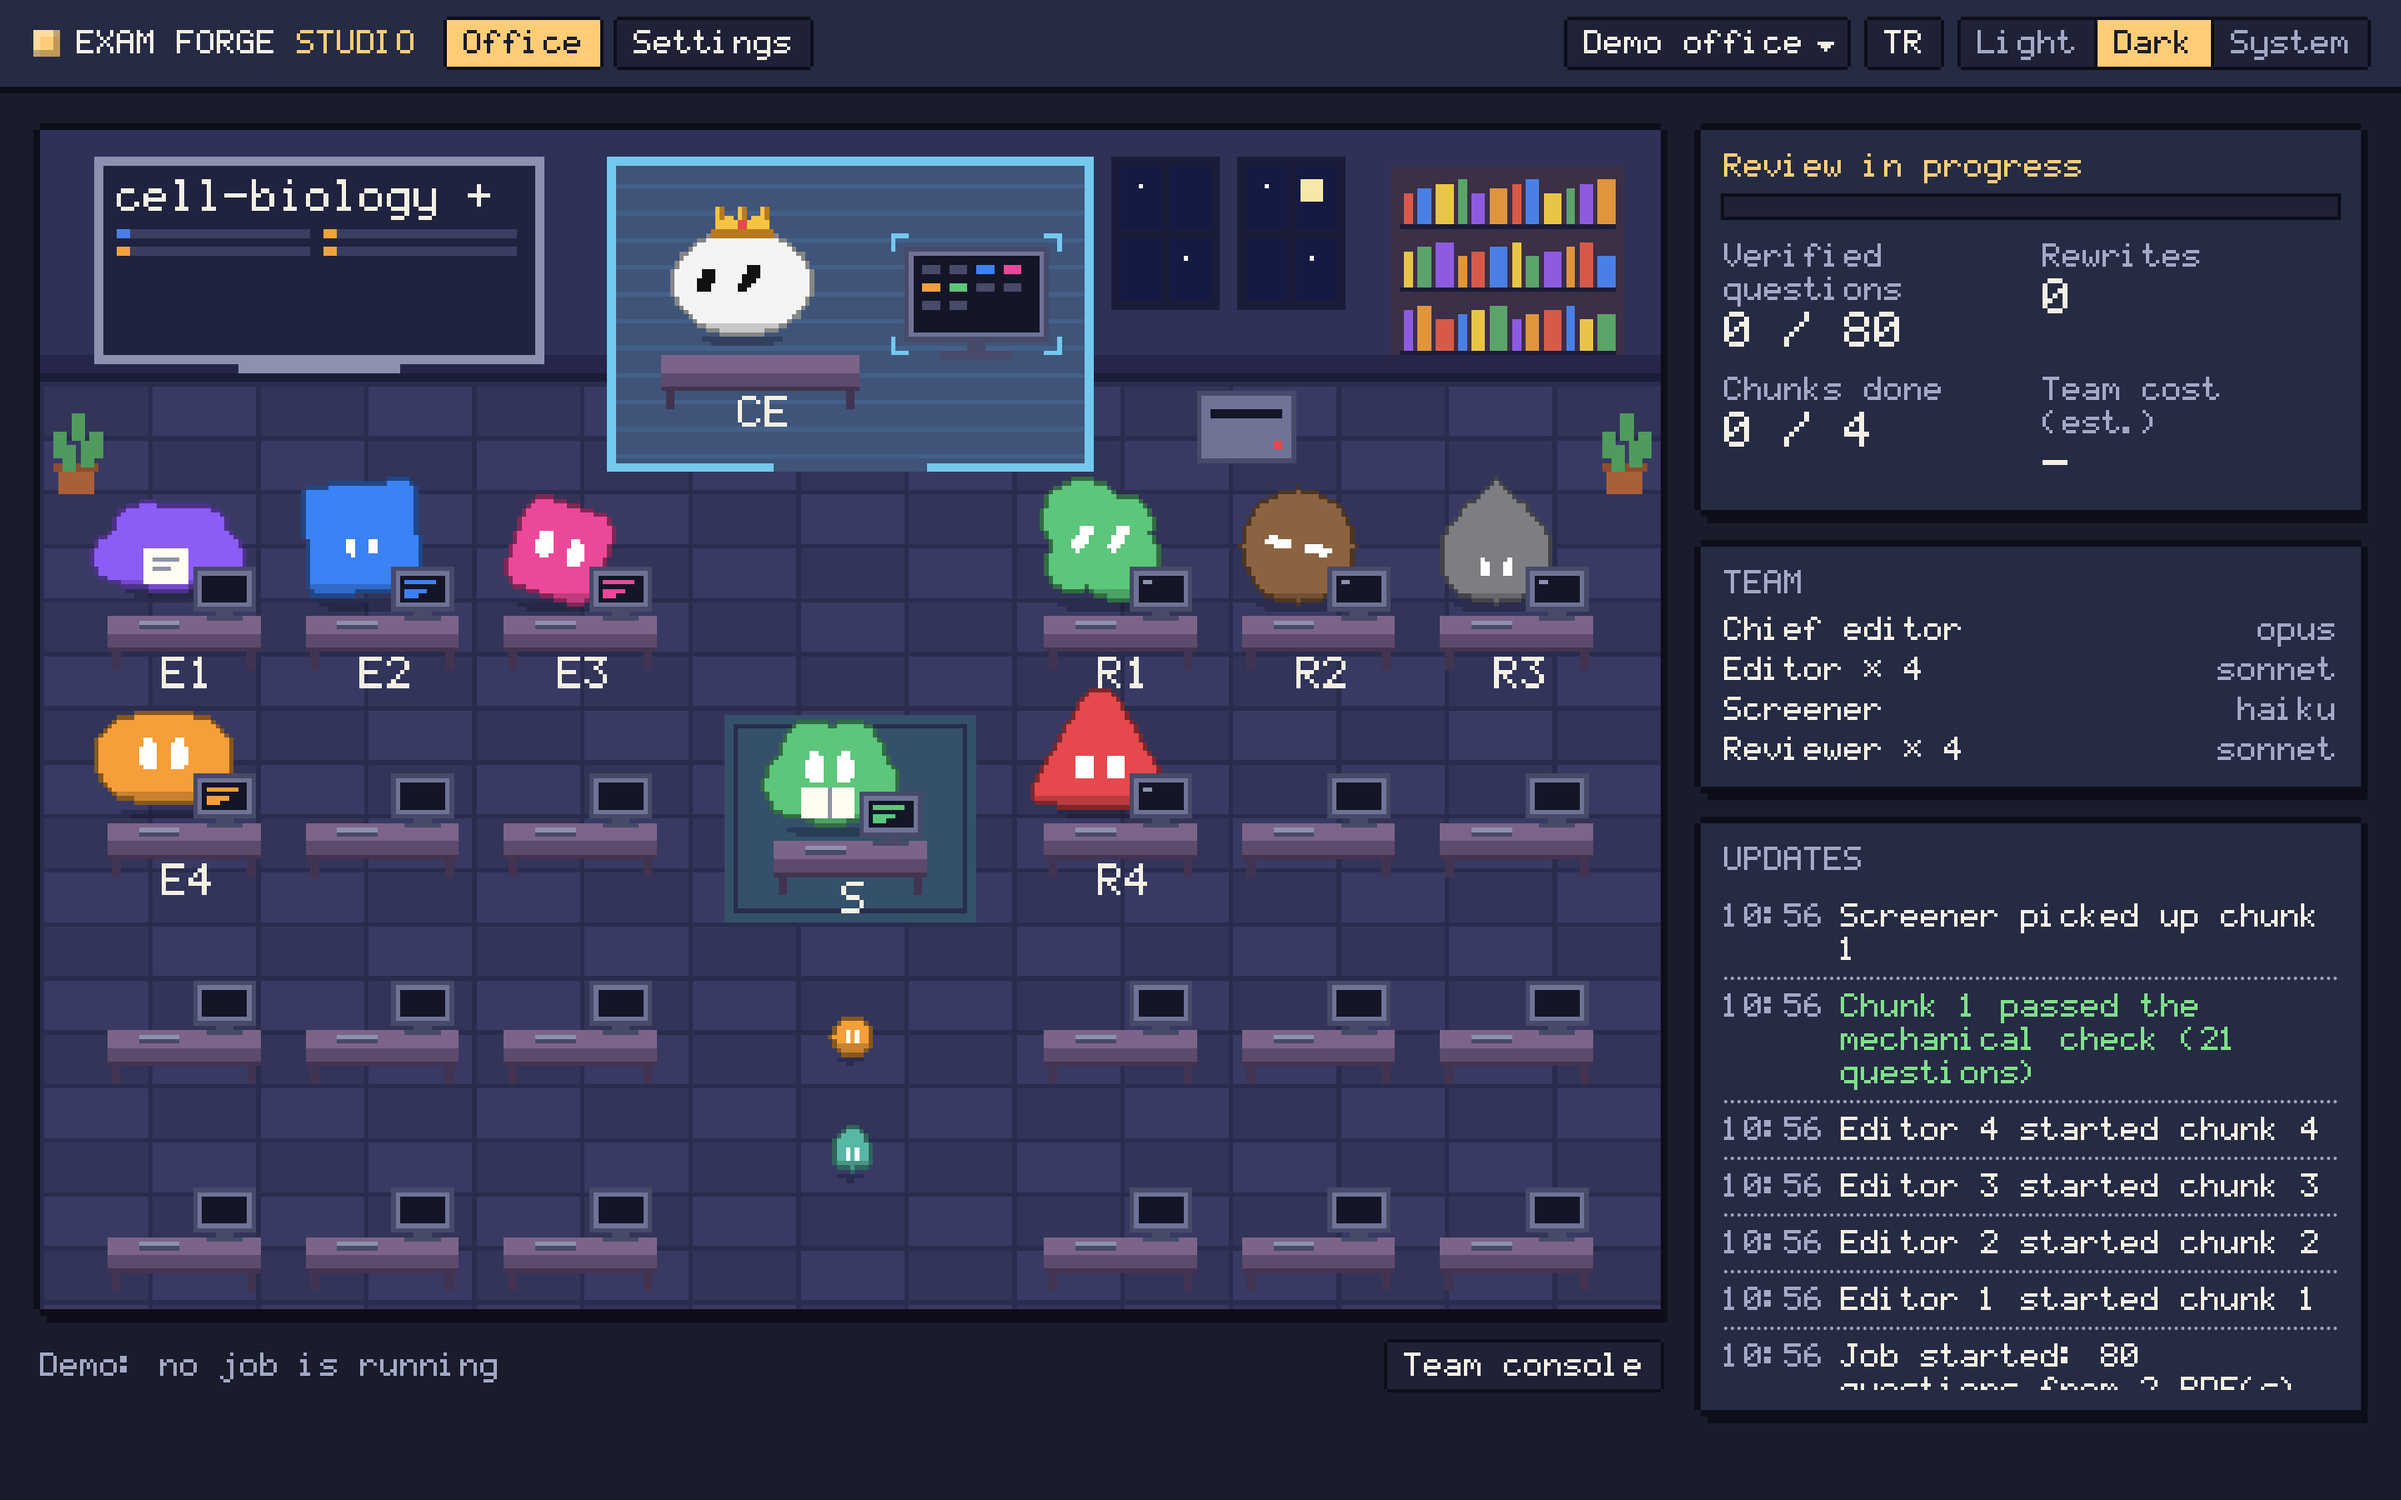
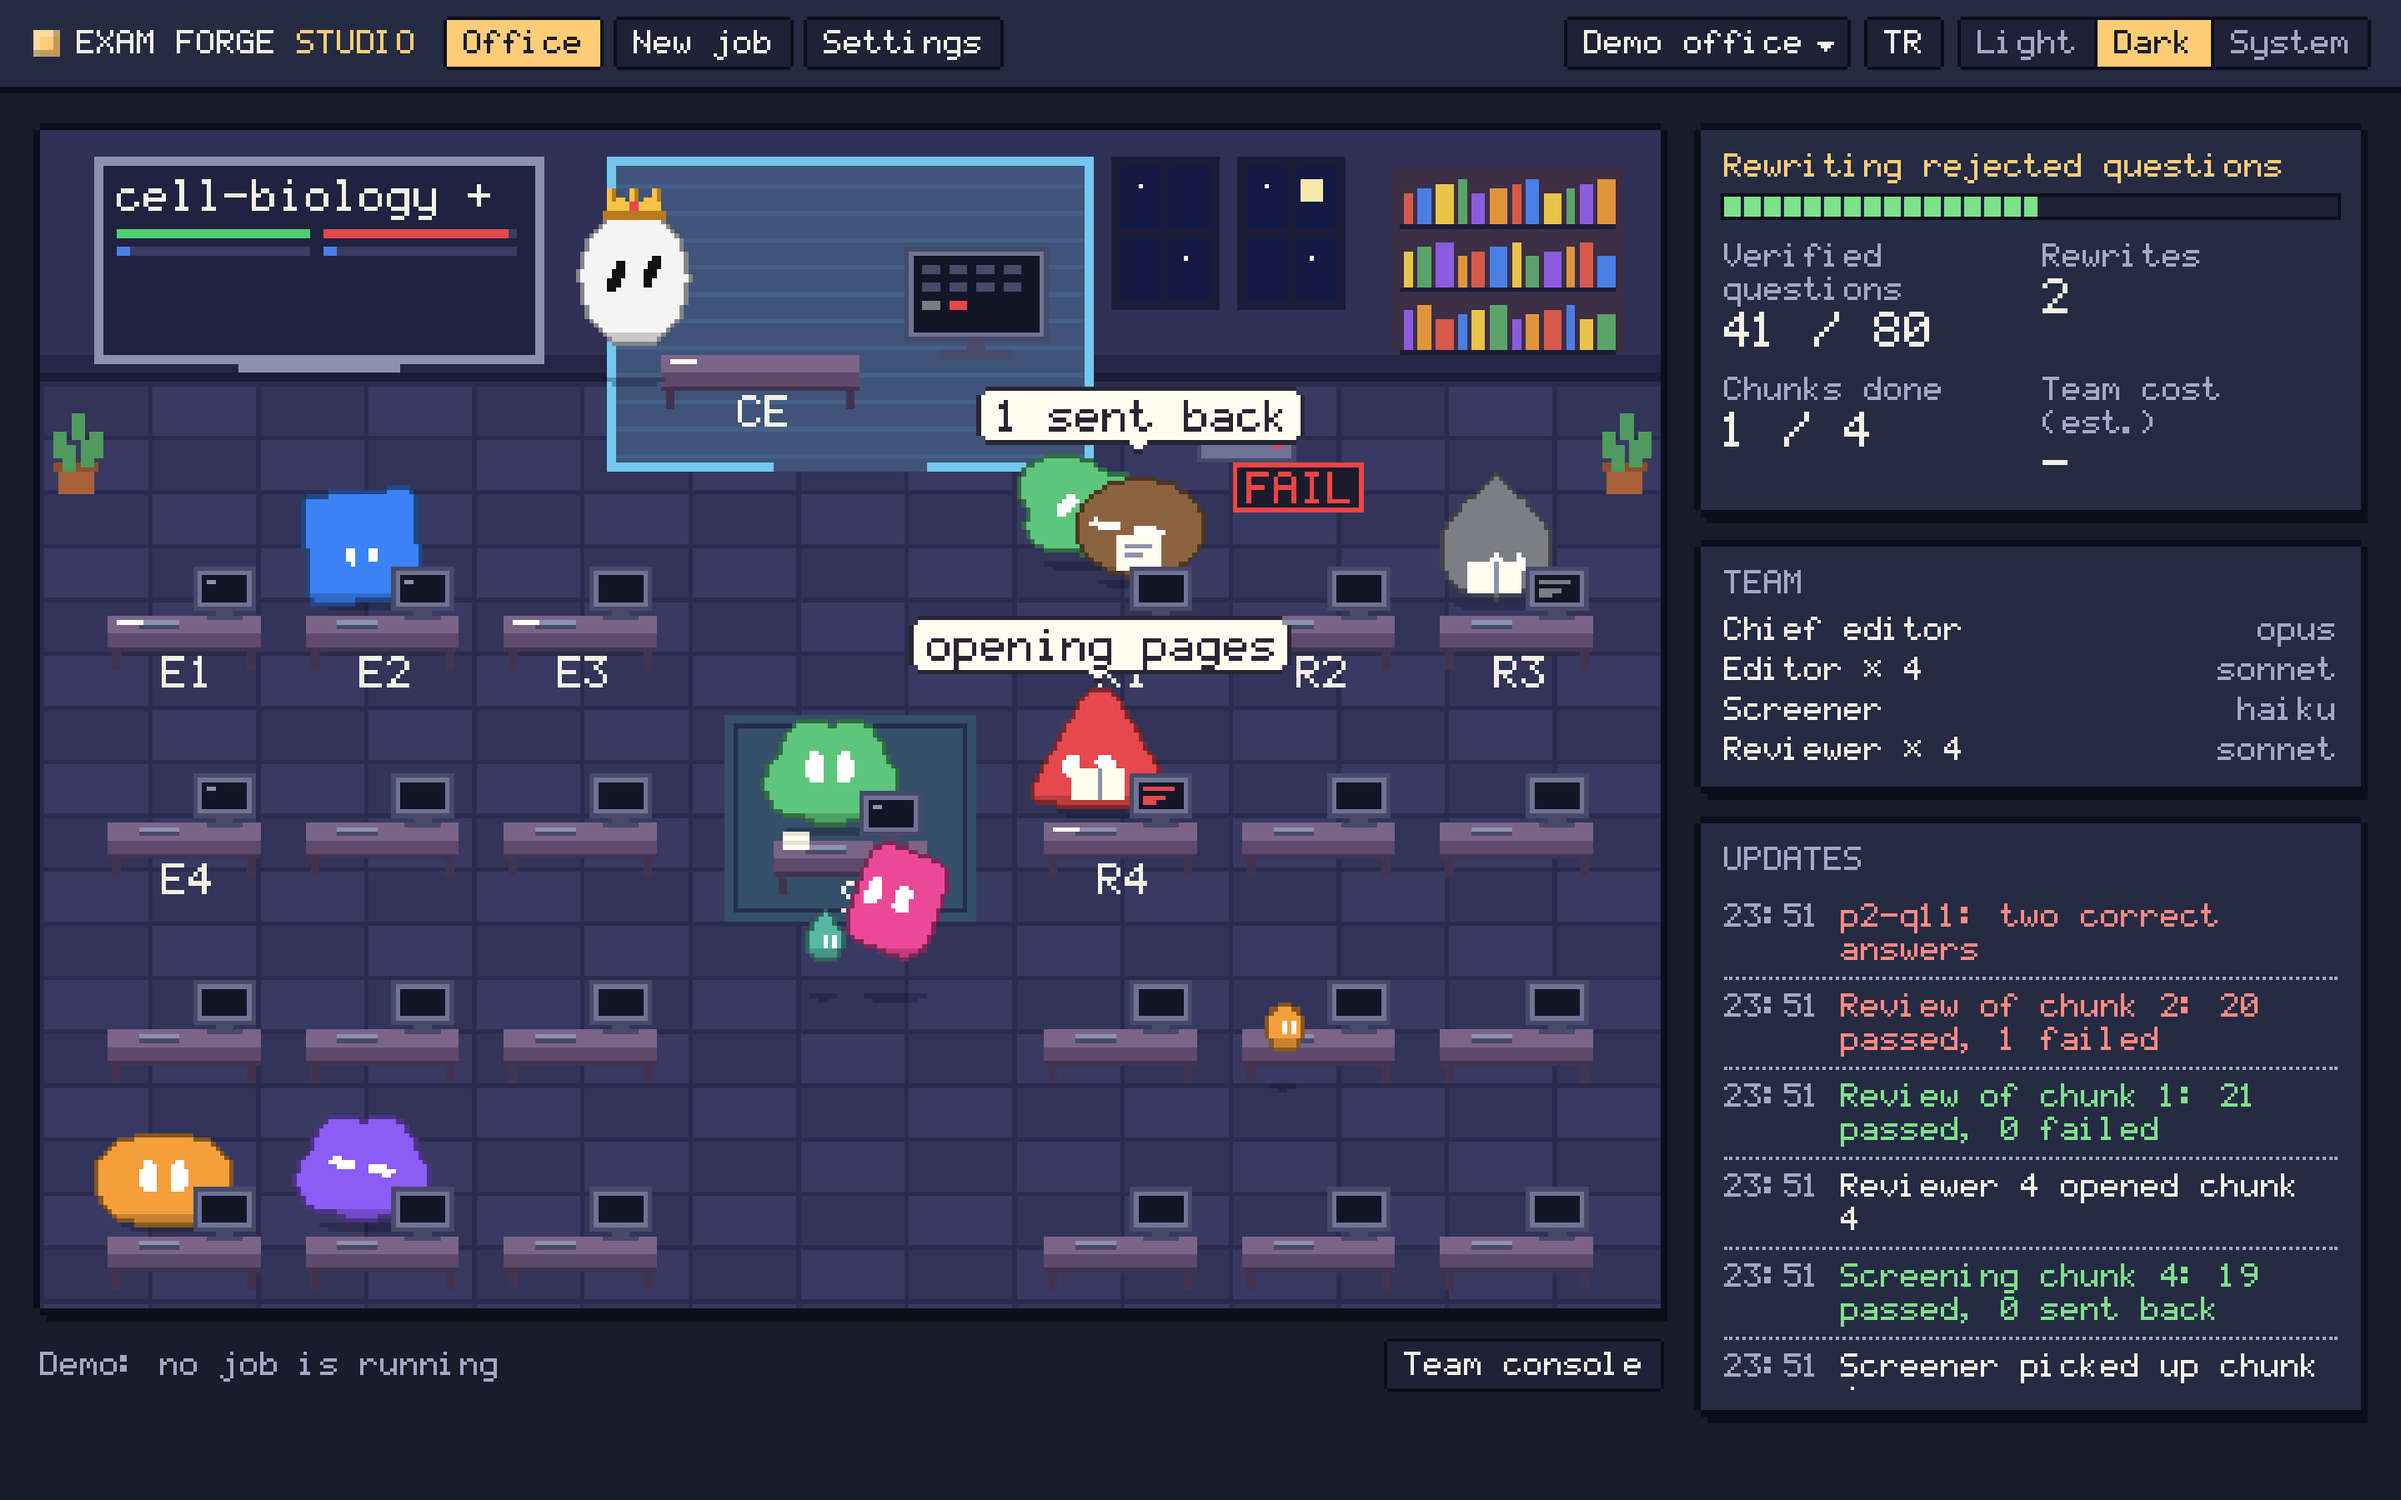
Make the README visual
Add an animated office header, sample book pages, team portraits,
Mermaid diagrams of the team flow and refreshed Studio screenshots.

diff --git a/README.md b/README.md
@@ -1,8 +1,36 @@
-# Exam Forge
+<p align="center">
+  <img src="docs/icon.png" width="112" alt="Exam Forge icon">
+</p>
 
-Turn lecture notes into a printable question book, where **every question comes from your source** and **passes an independent review** before it gets in. Exam Forge is a [Claude Code](https://claude.com/claude-code) plugin, and you can watch its editorial team work in a small pixel-art office.
+<h1 align="center">Exam Forge</h1>
 
-![Exam Forge Studio](docs/studio.png)
+<p align="center">
+  <strong>Turn lecture notes into a printable question book.<br>
+  Every question comes from your source, and an independent review has to pass it.</strong>
+</p>
+
+<p align="center">
+  <a href="https://github.com/on-retryx/exam-forge/releases/latest"><img src="https://img.shields.io/github/v/release/on-retryx/exam-forge?color=f6c667&label=release" alt="Latest release"></a>
+  <a href="LICENSE"><img src="https://img.shields.io/github/license/on-retryx/exam-forge?color=4f8cf0" alt="MIT license"></a>
+  <img src="https://img.shields.io/badge/Claude%20Code-plugin-e8785a" alt="Claude Code plugin">
+  <img src="https://img.shields.io/badge/languages-any%20source%20language-59c97a" alt="Works with any source language">
+</p>
+
+<p align="center">
+  <a href="#install">Install</a> ·
+  <a href="#use">Use</a> ·
+  <a href="#how-it-works">How it works</a> ·
+  <a href="#studio">Studio</a> ·
+  <a href="examples/water-cycle-questions.pdf">Sample book (PDF)</a> ·
+  <a href="#t%C3%BCrk%C3%A7e-%C3%B6zet">Türkçe</a>
+</p>
+
+Exam Forge is a [Claude Code](https://claude.com/claude-code) plugin. A team of Claude agents writes, screens, verifies and rewrites questions from your PDFs, and you can watch them work in a small pixel-art office.
+
+<p align="center">
+  <img src="docs/office.gif" alt="Animated Studio office: pixel bots write, screen and review questions at their desks" width="820">
+</p>
+<p align="center"><sub>The Studio's demo run, sped up.</sub></p>
 
 ## Why
 
@@ -19,6 +47,14 @@ AI can write exam questions quickly. The hard part is trusting them. A model can
 - **Several PDFs:** one book per PDF, or a single merged book with a cover for each part, named after the file or with a logical title
 - **Any language:** questions follow the language of your PDF. Book labels come in English and Turkish.
 - **A live Studio:** a local animated office with the team at their desks, progress, reasons for rejections and estimated cost
+
+### The book
+
+A cover, an optional contents page, a cover for each part, questions grouped by section and an answer key with explanations. These pages come from [`examples/water-cycle-questions.pdf`](examples/water-cycle-questions.pdf), a real output.
+
+<p align="center">
+  <img src="docs/book.png" alt="Four pages of a sample question book: cover, part cover, questions and answer key" width="880">
+</p>
 
 ## Install
 
@@ -80,33 +116,105 @@ Try it with [`examples/water-cycle.pdf`](examples/water-cycle.pdf). [`examples/w
 
 ## How it works
 
-```
-PDFs ─► Plan ─► Editors (parallel, one per chunk)
-                   │
-                   ▼
-           Mechanical check (forge.py)
-                   │
-                   ▼
-           Screener (Haiku, no PDF) ──── fail ──► Rewrite ─┐
-                   │ pass                                  │
-                   ▼                                       │
-           Reviewer (opens the pages) ── fail ──► Rewrite ─┤
-                   │ pass                                  │
-                   ▼                                       │
-           Chief editor (balanced preset) ─ fail ► Rewrite ─┘
-                   │ pass
-                   ▼
-           Merge ─► PDF book
+Your Claude session is the orchestrator. It never writes or reviews a question. It splits the PDFs into chunks, starts one editor per chunk in parallel, and moves each chunk through the checks as soon as it is ready.
+
+### Meet the team
+
+| | Role | Default model | Job |
+|---|---|---|---|
+| <img src="docs/team/editor.png" width="64" alt=""> | **Editor** | Sonnet | Reads only its pages and writes the questions |
+| <img src="docs/team/screener.png" width="64" alt=""> | **Screener** | Haiku | Catches defects visible in the text, before any costly review. Never opens the PDF. |
+| <img src="docs/team/reviewer.png" width="64" alt=""> | **Reviewer** | Opus | Opens the pages and proves each question against the source. Only this step can verify a question. |
+| <img src="docs/team/chief-editor.png" width="64" alt=""> | **Chief editor** | Opus, `balanced` only | Re-checks hard and rewritten questions plus a sample of the rest |
+| | Orchestrator | your session | Splits the work, runs the team, manages the queue |
+| | `forge.py` | no model | Plan, mechanical checks, approvals, merging, printing. Python standard library only. |
+
+### From PDF to book
+
+```mermaid
+flowchart TD
+    pdf([Your PDFs]) --> plan[Plan: split into chunks]
+    plan --> editors[Editors write in parallel<br/>one per chunk]
+    editors --> check{{Mechanical check<br/>forge.py}}
+    check -- errors --> editors
+    check -- ok --> screen[Screener<br/>reads the text, no PDF]
+    screen -- pass --> review[Reviewer<br/>opens the source pages]
+    review -- pass --> chief[Chief editor<br/>balanced preset only]
+    chief -- pass --> merge{{Merge and print<br/>forge.py}}
+    merge --> book([PDF book])
+    screen -- fail --> fix[Editor rewrites<br/>only the rejected questions]
+    review -- fail --> fix
+    chief -- fail --> fix
+    fix --> screen
+
+    classDef file fill:#f6c667,stroke:#b8862b,color:#1a1d2e
+    classDef agent fill:#4f8cf0,stroke:#2a5db0,color:#ffffff
+    classDef gate fill:#59c97a,stroke:#2f8a4c,color:#10231a
+    classDef tool fill:#2a2f4a,stroke:#6c7196,color:#ffffff
+    classDef redo fill:#e5534b,stroke:#a8322c,color:#ffffff
+    class pdf,book file
+    class editors agent
+    class screen,review,chief gate
+    class plan,check,merge tool
+    class fix redo
 ```
 
-| Role | Default model | Job |
-|---|---|---|
-| Orchestrator | your session | Splits the work, runs the team, manages the queue |
-| Editor | Sonnet | Reads only its pages and writes the questions |
-| Screener | Haiku | Catches defects visible in the text, before any costly review |
-| Reviewer | Opus | Opens the pages and proves each question against the source. Only this step can verify a question. |
-| Chief editor | Opus, `balanced` only | Re-checks hard and rewritten questions plus a sample of the rest |
-| `forge.py` | no model | Plan, mechanical checks, approvals, merging, printing. Python standard library only. |
+The rule is enforced by the tool, not by goodwill: `forge.py` only merges questions that carry a passing review, so an unverified question cannot reach the book.
+
+### One chunk, step by step
+
+Chunks do not wait for each other. A rejected question costs little, because a rewrite goes back with only the pages it needs.
+
+```mermaid
+sequenceDiagram
+    autonumber
+    participant O as Orchestrator
+    participant E as Editor
+    participant F as forge.py
+    participant S as Screener
+    participant R as Reviewer
+    O->>E: Write questions from pages 1 to 12
+    E-->>O: Questions with page and quote
+    O->>F: check
+    F-->>O: Format and difficulty mix are fine
+    O->>S: Screen the text
+    S-->>O: 1 flagged, a giveaway option
+    O->>E: Replace that question
+    E-->>O: New question
+    O->>R: Review, with the source pages
+    R-->>O: 20 pass, 1 fail with a reason
+    loop Until nothing fails
+        O->>E: Rewrite the rejected question
+        E-->>O: New question
+        O->>R: Review it, only its pages
+        R-->>O: Pass
+    end
+    O->>F: approve, merge, render
+    F-->>O: Book PDF
+```
+
+After `topic_change_round` rounds the editor moves to a different topic in the same pages. After `max_rounds` you decide: drop the question or keep trying.
+
+### Studio and your session
+
+The Studio never runs agents. It hands your job to the Claude Code session, and shows what the session reports. That is why the session has to stay open.
+
+```mermaid
+flowchart LR
+    you([You]) -- PDFs and choices --> studio[Studio<br/>local web app]
+    studio -- job --> session[Claude Code session<br/>waits with intake wait]
+    session -- starts --> team[Agent team]
+    team -- progress events --> studio
+    session -- questions for you --> studio
+    team --> book([Your book])
+
+    classDef file fill:#f6c667,stroke:#b8862b,color:#1a1d2e
+    classDef agent fill:#4f8cf0,stroke:#2a5db0,color:#ffffff
+    classDef tool fill:#2a2f4a,stroke:#6c7196,color:#ffffff
+    class you,book file
+    class session,team agent
+    class studio tool
+```
 
 ## Cost and quality
 
@@ -149,6 +257,12 @@ The Studio opens in a window of its own when a job starts, with a start screen t
 In the job form you can name a cost target in USD or tokens and get the best team for it, or pick each role's model and effort and watch the estimate change. The estimate is a range: it starts from one measured job and adjusts to your own jobs over time. A target is not a hard limit, because the number of rewrite rounds can't be known in advance; if spending passes 120% of it, the Studio asks whether to go on. USD figures use API list prices, so on a subscription they are only a comparison.
 
 It never shows question text. Open it any time with `/exam-forge:studio`. To stop it opening by itself: `studio_auto_open` = `false`. A running Studio closes itself after 30 quiet minutes, and within about a minute and a half if a newer one has replaced it, but not while a window is open, a question is waiting for an answer, or a job has written an event in the last 15 minutes. One agent that stays silent for longer, with no window open, can see it close. `ask` starts it again when it needs one.
+
+### A look around
+
+| Pick the difficulty mix, the team and a cost target | Watch the job in the office |
+|---|---|
+| <img src="docs/team-and-cost.png" alt="New job form with difficulty sliders, role and model choices and a cost estimate"> | <img src="docs/studio.png" alt="Studio office with the team at work and live progress"> |
 
 ## Settings
 
